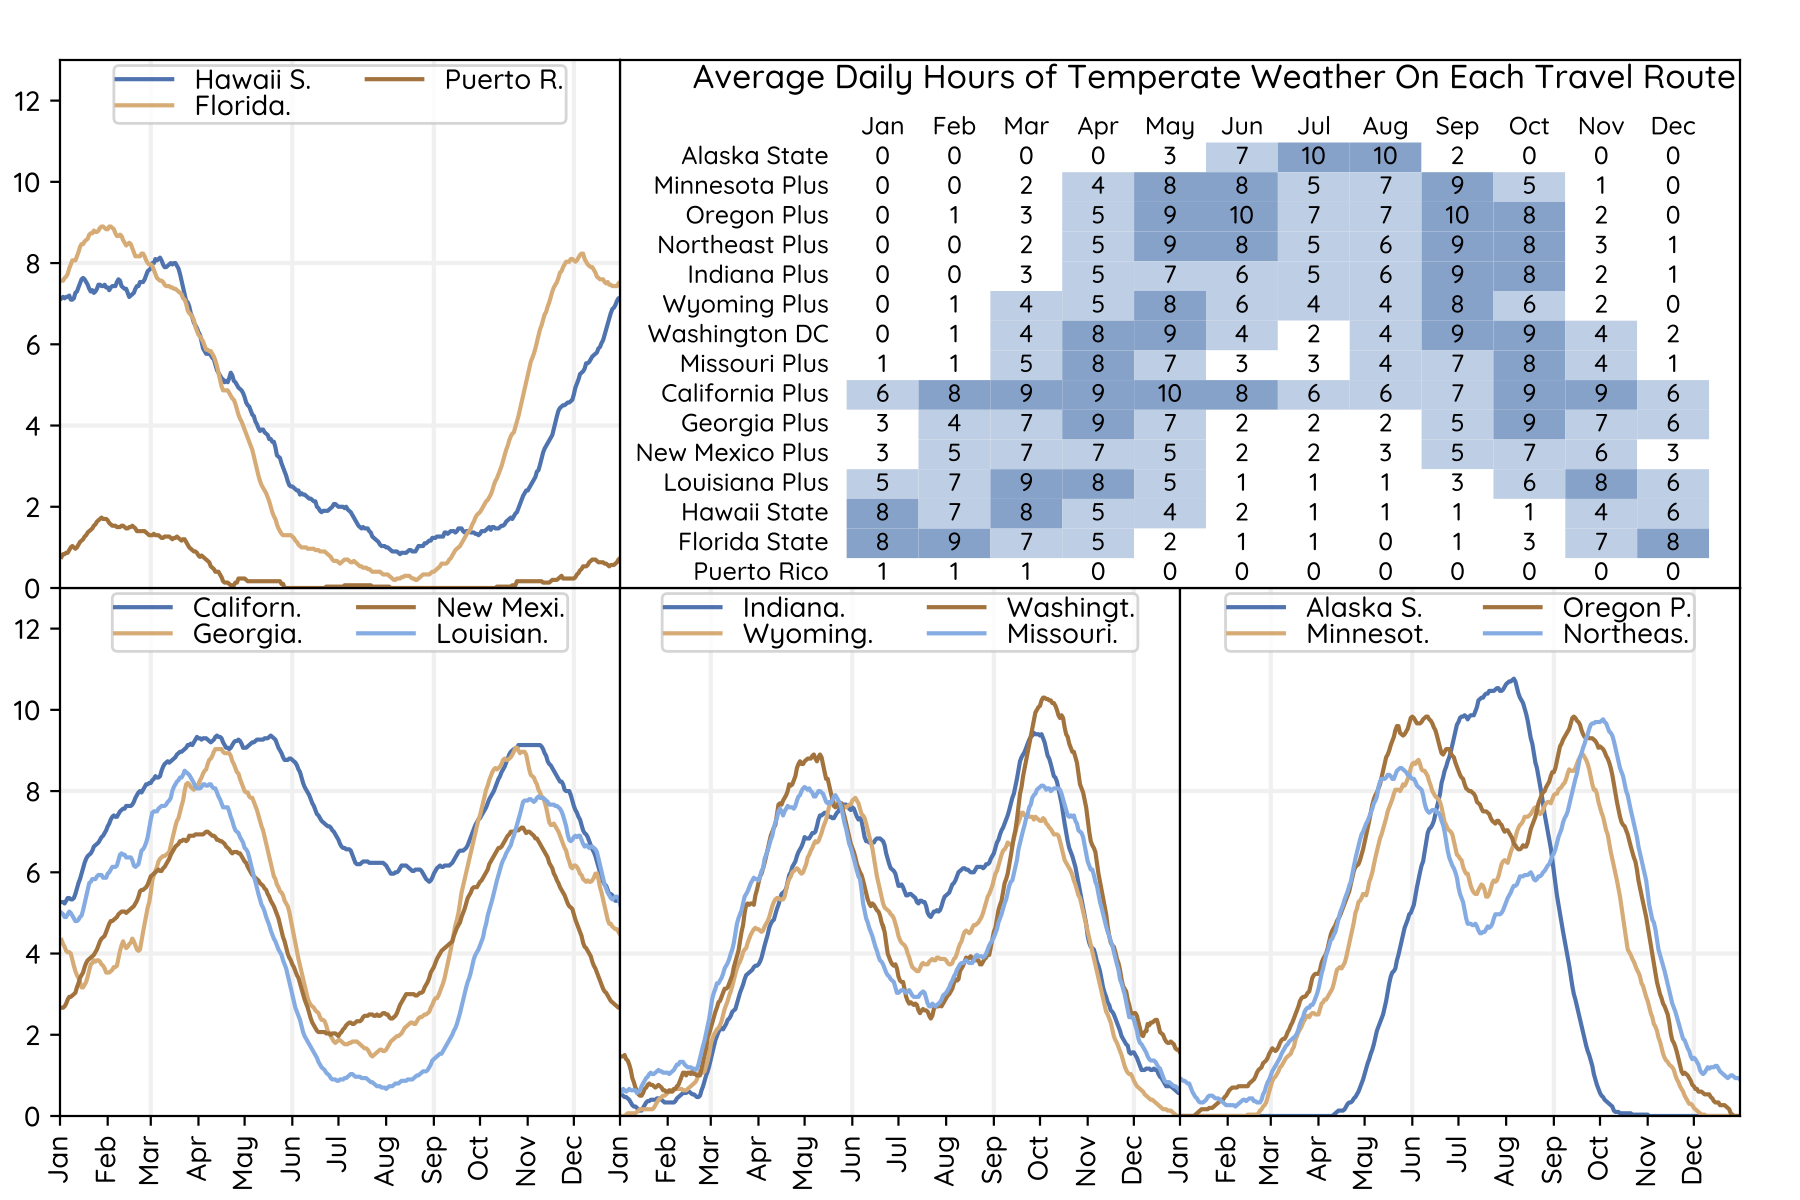
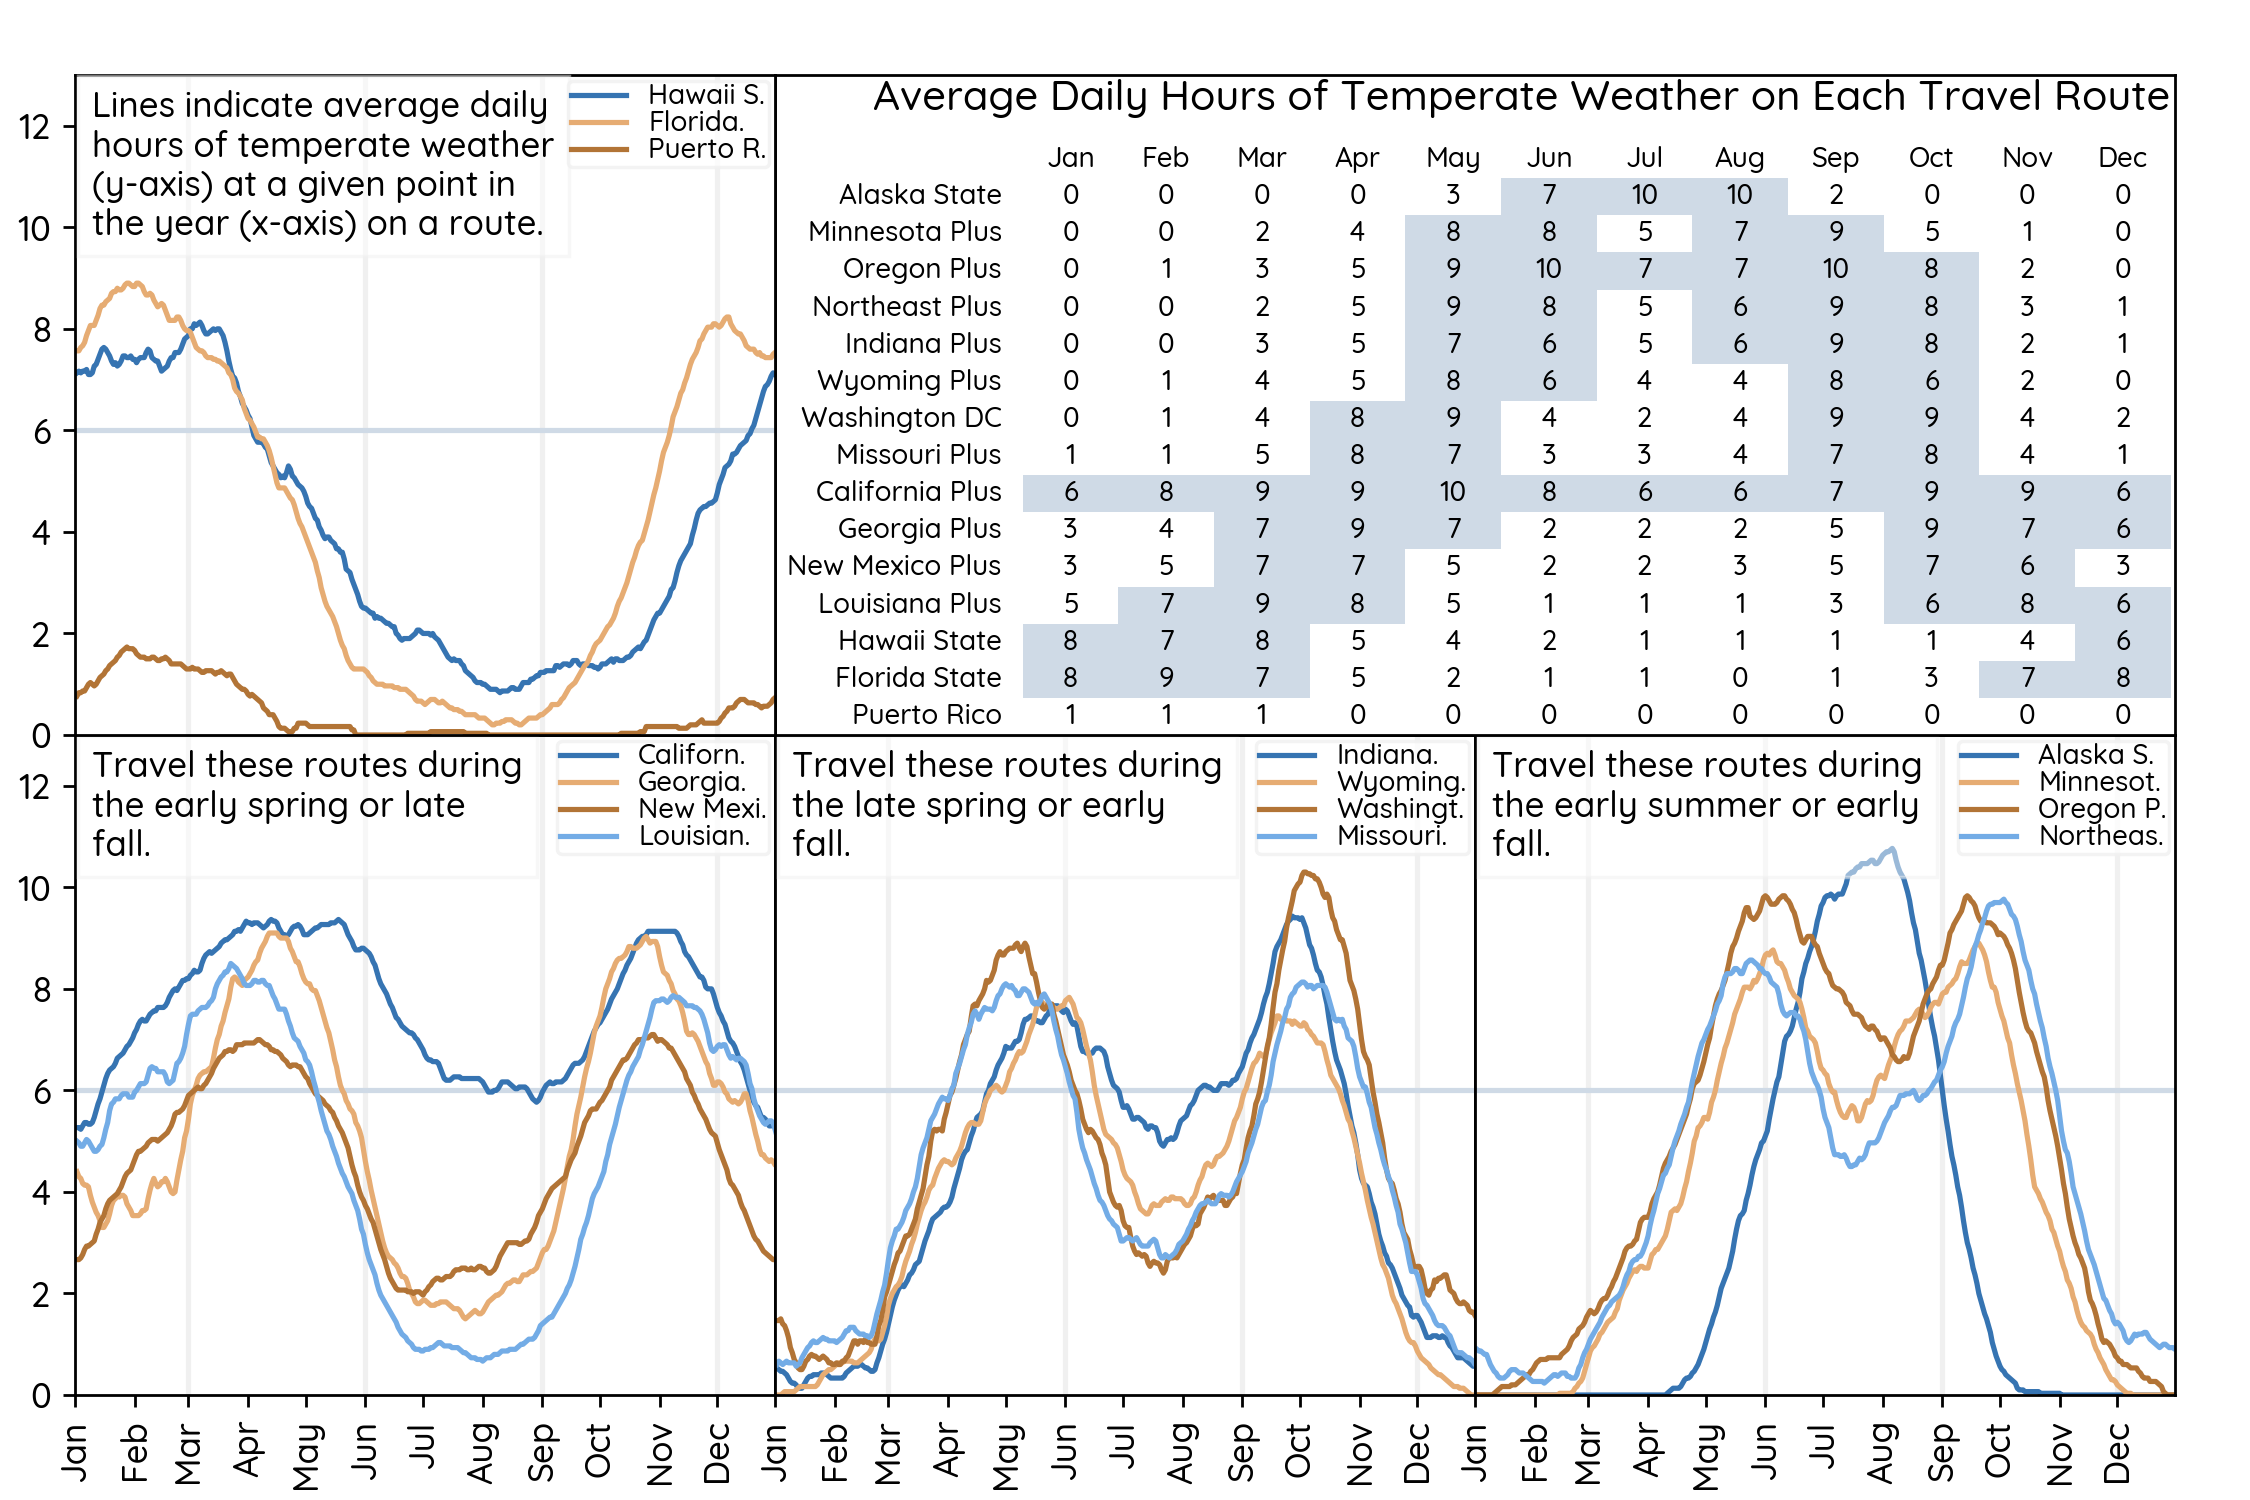
Annotate graphs, fix capitalization, and simplify table shading

diff --git a/project_descriptions.html b/project_descriptions.html
@@ -53,14 +53,14 @@ Below are project descriptions, visualizations, and links for eight projects,
 out of dozens I worked on between 2014 and 2020. Here is the one-sentence
 description of my work on each:</p>
 <ul>
-<li> Conducted app black box testing and developed metrics to support a $1.2 billion disaster mitigation grant program
-<li> Facilitated a disaster recovery plan as an on-the-ground liaison for the plan writers
-<li> Simulated policy impact using NCANDS datasets to make the child welfare system more effective
-<li> Applied unsupervised machine learning to personnel records to derive an empirically-grounded career path typology
-<li> Performed statistical analysis and A/B testing to understand social media engagement
-<li> Employed unsupervised machine learning on voter survey data to analyze presidential candidate support
-<li> Developed supervised machine learning procedure using social media to measure ideological prevalence
-<li> Developed text mining procedure using social media to detect/extract information about chemical weapons incidents
+<li> Conducted app black box testing and developed metrics to support a disaster mitigation grant program; client used research to win OMB approval to launch the program and award $1.2 billion in financial assistance.
+<li> Facilitated a $105 billion disaster recovery plan as an on-the-ground negotiator, analyst, and representative for the plan writers; client used the plan to obtain $80 billion from Congress.
+<li> Simulated policy impact using NCANDS datasets to make the child welfare system more effective; client used research to lobby successfully for the Families First Prevention Act.
+<li> Employed unsupervised machine learning on voter survey data to analyze presidential candidate support; wrote articles geared towards the public that drove more traffic to RAND.org than any other RAND webpage that year.
+<li> Applied unsupervised machine learning to personnel records to derive an empirically-grounded career path typology; client used research to implement a new talent management system.
+<li> Performed statistical analysis and A/B testing to understand social media engagement; client used research to make social media content more gender-inclusive, which increased audience engagement.
+<li> Developed supervised machine learning procedure using social media to measure ideological prevalence; used to measure uptake of Russian propaganda in Eastern Europe.
+<li> Developed text mining procedure using social media to detect/extract information about chemical weapons incidents as they happen.
 </ul>
 </div>
 

diff --git a/index.html b/index.html
@@ -179,8 +179,8 @@ America's states are not equally sized.  For example, Texas has 51 times
 Wyoming's population and 253 times Rhode Island's land area. This project
 creates an interactive tool for exploring how targeted changes to state borders
 could produce better state borders.  As you change the boundaries, the tool will
-automatically score how your changes affect inequality among states. Note: The
-tool loads slowly right now. Eventually, I will overhaul this project...
+automatically score how your changes affect inequality among states. Note: Tool
+loads slowly right now. Eventually, I will overhaul this project...
 </p>
 
 <p>
